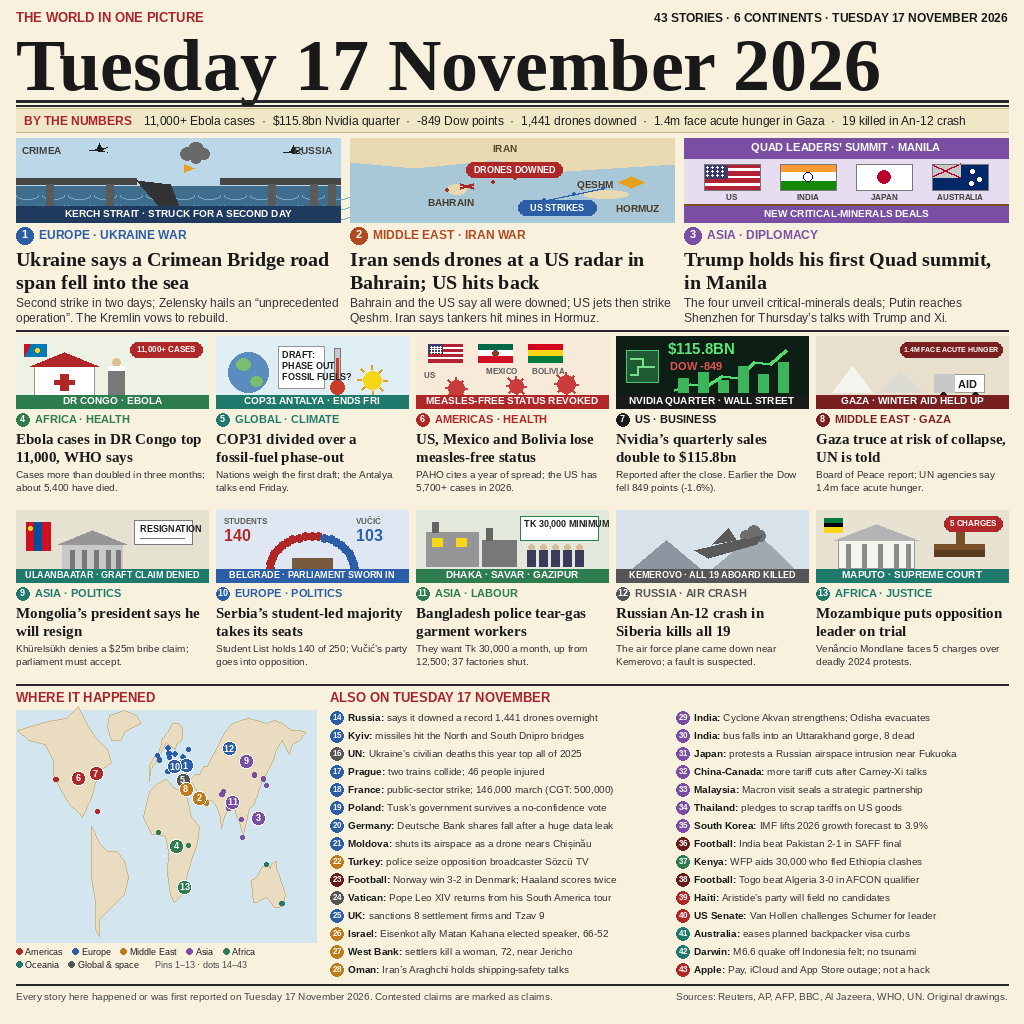
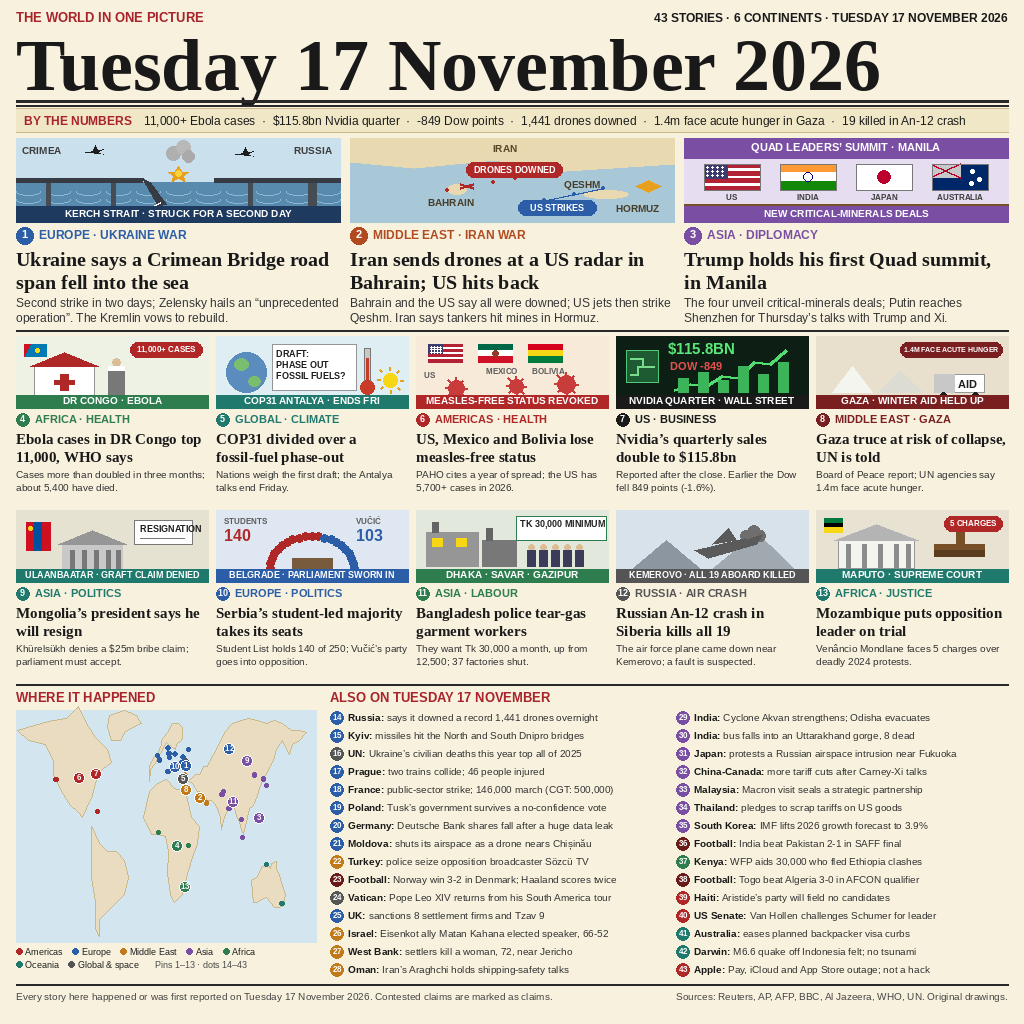
Polish front page: redraw Crimea bridge, fix label overlaps (QESHM, COP31 box, garment sign), shrink map pins

diff --git a/draw.py b/draw.py
@@ -196,8 +196,8 @@ ALSO = [
 # (lon, lat) for map pins 1-13 and dots 14-43.
 PINS = {
     1: (34.0, 45.3, BLUE), 2: (50.5, 26.2, ORANGE), 3: (121.0, 14.6, PURPLE),
-    4: (23.0, -2.0, GREEN), 5: (30.7, 36.9, GREY), 6: (-95.0, 38.0, REDK),
-    7: (-74.0, 40.7, REDK), 8: (34.5, 31.5, ORANGE), 9: (106.9, 47.9, PURPLE),
+    4: (23.0, -2.0, GREEN), 5: (30.7, 37.5, GREY), 6: (-95.0, 38.0, REDK),
+    7: (-74.0, 40.7, REDK), 8: (34.5, 31.0, ORANGE), 9: (106.9, 47.9, PURPLE),
     10: (20.5, 44.8, BLUE), 11: (90.4, 23.8, PURPLE), 12: (86.0, 55.4, BLUE),
     13: (32.6, -25.9, GREEN),
 }
@@ -310,24 +310,39 @@ def _strip(d, x, y, w, h, color, text):
 
 
 def ill_bridge(d, x, y, w, h):
-    d.rectangle([x, y, x + w, y + h], fill=(188, 216, 232))
-    d.rectangle([x, y + 48, x + w, y + h], fill=(63, 109, 142))
-    for wy in (56, 66, 76):
-        for wx in range(0, w, 26):
-            d.arc([x + wx, y + wy - 3, x + wx + 22, y + wy + 5], 0, 180,
-                  fill=(120, 170, 200))
+    # Pale sky, blue water, thin clean deck with a clear fallen gap.
+    d.rectangle([x, y, x + w, y + h], fill=(202, 224, 236))
+    d.rectangle([x, y + 44, x + w, y + h], fill=(88, 138, 173))
+    for wy in (52, 60, 68):
+        for wx in range(0, w, 30):
+            d.arc([x + wx, y + wy - 3, x + wx + 24, y + wy + 5], 0, 180,
+                  fill=(140, 182, 210))
     cx = x + w // 2
-    _smoke(d, cx + 18, y + 16, 9, (105, 105, 105))
-    d.rectangle([x, y + 40, cx - 42, y + 46], fill=(70, 70, 70))
-    d.rectangle([cx + 42, y + 40, x + w, y + 46], fill=(70, 70, 70))
-    d.polygon([(cx - 42, y + 42), (cx - 8, y + 46), (cx + 2, y + 72),
-               (cx - 14, y + 74)], fill=(50, 50, 50))
-    for px in (x + 30, x + 90, cx + 90, cx + 150, x + w - 30):
-        d.rectangle([px, y + 46, px + 7, y + 76], fill=(90, 90, 90))
-    _plane(d, x + 82, y + 12, 9)
-    _plane(d, x + w - 48, y + 14, 9)
-    d.polygon([(cx + 6, y + 26), (cx + 16, y + 30), (cx + 6, y + 34)],
-              fill=(230, 160, 30))
+    # Slender pillars (none under the fallen gap).
+    for px in (x + 30, x + 95, cx + 70, cx + 130, x + w - 28):
+        d.rectangle([px, y + 44, px + 4, y + 80], fill=(70, 76, 84))
+    # Thin deck, split where the span fell.
+    d.rectangle([x, y + 40, cx - 36, y + 44], fill=(55, 60, 68))
+    d.rectangle([cx + 36, y + 40, x + w, y + 44], fill=(55, 60, 68))
+    # Fallen span: a thin tilted deck segment dropping into the water.
+    d.polygon([(cx - 36, y + 40), (cx - 28, y + 44), (cx - 12, y + 66),
+               (cx - 20, y + 68)], fill=(55, 60, 68))
+    # Small white splash where the span meets the water.
+    d.line([cx - 26, y + 68, cx - 18, y + 64], fill=(255, 255, 255), width=2)
+    d.line([cx - 22, y + 68, cx - 14, y + 68], fill=(255, 255, 255), width=2)
+    # Orange flash at the break point.
+    d.polygon([(cx, y + 28), (cx + 4, y + 34), (cx + 10, y + 34),
+               (cx + 5, y + 38), (cx + 7, y + 44), (cx, y + 40),
+               (cx - 7, y + 44), (cx - 5, y + 38), (cx - 10, y + 34),
+               (cx - 4, y + 34)], fill=(230, 160, 30))
+    d.ellipse([cx - 3, y + 32, cx + 3, y + 38], fill=(250, 210, 60))
+    # Soft smoke plume rising from the break.
+    d.ellipse([cx - 12, y + 8, cx + 2, y + 22], fill=(175, 175, 175))
+    d.ellipse([cx - 2, y + 2, cx + 12, y + 16], fill=(185, 185, 185))
+    d.ellipse([cx + 4, y + 12, cx + 16, y + 24], fill=(170, 170, 170))
+    # Two jets, well clear of the labels.
+    _plane(d, x + 78, y + 14, 9)
+    _plane(d, x + w - 96, y + 16, 9)
     f = font(SANS_B, 10)
     d.text((x + 6, y + 6), "CRIMEA", font=f, fill=(60, 60, 60))
     d.text((x + w - 46, y + 6), "RUSSIA", font=f, fill=(60, 60, 60))
@@ -343,7 +358,7 @@ def ill_gulf(d, x, y, w, h):
     f = font(SANS_B, 10)
     d.text((x + w * 0.44, y + 4), "IRAN", font=f, fill=(90, 70, 40))
     d.text((x + w * 0.24, y + 58), "BAHRAIN", font=f, fill=(70, 60, 40))
-    d.text((x + w * 0.70, y + 40), "QESHM", font=f, fill=(70, 60, 40))
+    d.text((x + w * 0.66, y + 40), "QESHM", font=f, fill=(70, 60, 40))
     d.text((x + w * 0.82, y + 64), "HORMUZ", font=f, fill=(70, 60, 40))
     for i in range(9):
         t = i / 8.0
@@ -365,8 +380,8 @@ def ill_gulf(d, x, y, w, h):
            width=3)
     d.line([x + w * 0.34, y + 50, x + w * 0.38, y + 46], fill=(176, 39, 39),
            width=3)
-    d.polygon([(x + w * 0.87, y + 38), (x + w * 0.91, y + 44),
-               (x + w * 0.87, y + 50), (x + w * 0.83, y + 44)],
+    d.polygon([(x + w * 0.92, y + 42), (x + w * 0.96, y + 48),
+               (x + w * 0.92, y + 54), (x + w * 0.88, y + 48)],
               fill=(230, 160, 30))
     pill(d, x + w * 0.36, y + 24, 96, 15, (176, 39, 39), "DRONES DOWNED", 9)
     pill(d, x + w * 0.52, y + 62, 78, 15, (43, 94, 167), "US STRIKES", 9)
@@ -411,27 +426,28 @@ def ill_ebola(d, x, y, w, h):
 
 def ill_cop31(d, x, y, w, h):
     d.rectangle([x, y, x + w, y + h], fill=(223, 238, 242))
-    d.ellipse([x + 12, y + 16, x + 52, y + 56], fill=(90, 140, 190))
-    d.ellipse([x + 20, y + 22, x + 34, y + 34], fill=(120, 190, 110))
-    d.ellipse([x + 34, y + 40, x + 46, y + 50], fill=(120, 190, 110))
-    d.rectangle([x + 118, y + 12, x + 124, y + 46], fill=(200, 200, 200),
-                outline=(120, 120, 120))
-    d.rectangle([x + 120, y + 22, x + 122, y + 44], fill=(200, 60, 40))
-    d.ellipse([x + 114, y + 44, x + 128, y + 58], fill=(200, 60, 40))
-    d.rectangle([x + 62, y + 10, x + 108, y + 52], fill=(255, 255, 255),
+    d.ellipse([x + 10, y + 16, x + 50, y + 56], fill=(90, 140, 190))
+    d.ellipse([x + 18, y + 22, x + 32, y + 34], fill=(120, 190, 110))
+    d.ellipse([x + 32, y + 40, x + 44, y + 50], fill=(120, 190, 110))
+    # Wide white box so all three lines fit without overflow.
+    d.rectangle([x + 56, y + 8, x + 140, y + 54], fill=(255, 255, 255),
                 outline=(150, 150, 150))
-    d.text((x + 66, y + 13), "DRAFT:", font=font(SANS_B, 9), fill=(30, 30, 30))
-    d.text((x + 66, y + 24), "PHASE OUT", font=font(SANS_B, 9),
+    d.text((x + 60, y + 12), "DRAFT:", font=font(SANS_B, 9), fill=(30, 30, 30))
+    d.text((x + 60, y + 23), "PHASE OUT", font=font(SANS_B, 9),
            fill=(30, 30, 30))
-    d.text((x + 66, y + 35), "FOSSIL FUELS?", font=font(SANS_B, 9),
+    d.text((x + 60, y + 34), "FOSSIL FUELS?", font=font(SANS_B, 9),
            fill=(30, 30, 30))
+    d.rectangle([x + 148, y + 12, x + 154, y + 46], fill=(200, 200, 200),
+                outline=(120, 120, 120))
+    d.rectangle([x + 150, y + 22, x + 152, y + 44], fill=(200, 60, 40))
+    d.ellipse([x + 144, y + 44, x + 158, y + 58], fill=(200, 60, 40))
     import math
-    d.ellipse([x + 147, y + 35, x + 165, y + 53], fill=(247, 214, 22))
+    d.ellipse([x + 167, y + 37, x + 181, y + 51], fill=(247, 214, 22))
     for a in range(0, 360, 45):
         dx = math.cos(math.radians(a))
         dy = math.sin(math.radians(a))
-        d.line([x + 156 + dx * 11, y + 44 + dy * 11, x + 156 + dx * 15,
-                y + 44 + dy * 15], fill=(230, 160, 30), width=2)
+        d.line([x + 174 + dx * 10, y + 44 + dy * 10, x + 174 + dx * 13,
+                y + 44 + dy * 13], fill=(230, 160, 30), width=2)
 
 
 def ill_measles(d, x, y, w, h):
@@ -548,9 +564,9 @@ def ill_garment(d, x, y, w, h):
     for i, px in enumerate((112, 124, 136, 148, 160)):
         d.ellipse([x + px, y + 34, x + px + 6, y + 40], fill=(220, 190, 150))
         d.rectangle([x + px - 1, y + 40, x + px + 7, y + 56], fill=(60, 60, 90))
-    d.rectangle([x + 104, y + 6, x + 182, y + 30], fill=(255, 255, 255),
+    d.rectangle([x + 100, y + 6, x + 190, y + 30], fill=(255, 255, 255),
                 outline=(46, 125, 79))
-    d.text((x + 108, y + 8), "TK 30,000 MINIMUM", font=font(SANS_B, 9),
+    d.text((x + 104, y + 8), "TK 30,000 MINIMUM", font=font(SANS_B, 9),
            fill=(30, 30, 30))
 
 
@@ -698,9 +714,9 @@ def draw_map(d):
     for n in sorted(PINS):
         lon, lat, col = PINS[n]
         px, py = _project(lon, lat, x0, y0, w, h)
-        d.ellipse([px - 7, py - 7, px + 7, py + 7], fill=col,
+        d.ellipse([px - 5.5, py - 5.5, px + 5.5, py + 5.5], fill=col,
                   outline=(255, 255, 255))
-        d.text((px, py - 1), str(n), font=font(SANS_B, 9),
+        d.text((px, py - 1), str(n), font=font(SANS_B, 8),
                fill=(255, 255, 255), anchor="mm")
     d.text((16, 690), "WHERE IT HAPPENED", font=font(SANS_B, 13), fill=RED)
     legend = [("Americas", REDK), ("Europe", BLUE), ("Middle East", ORANGE),
